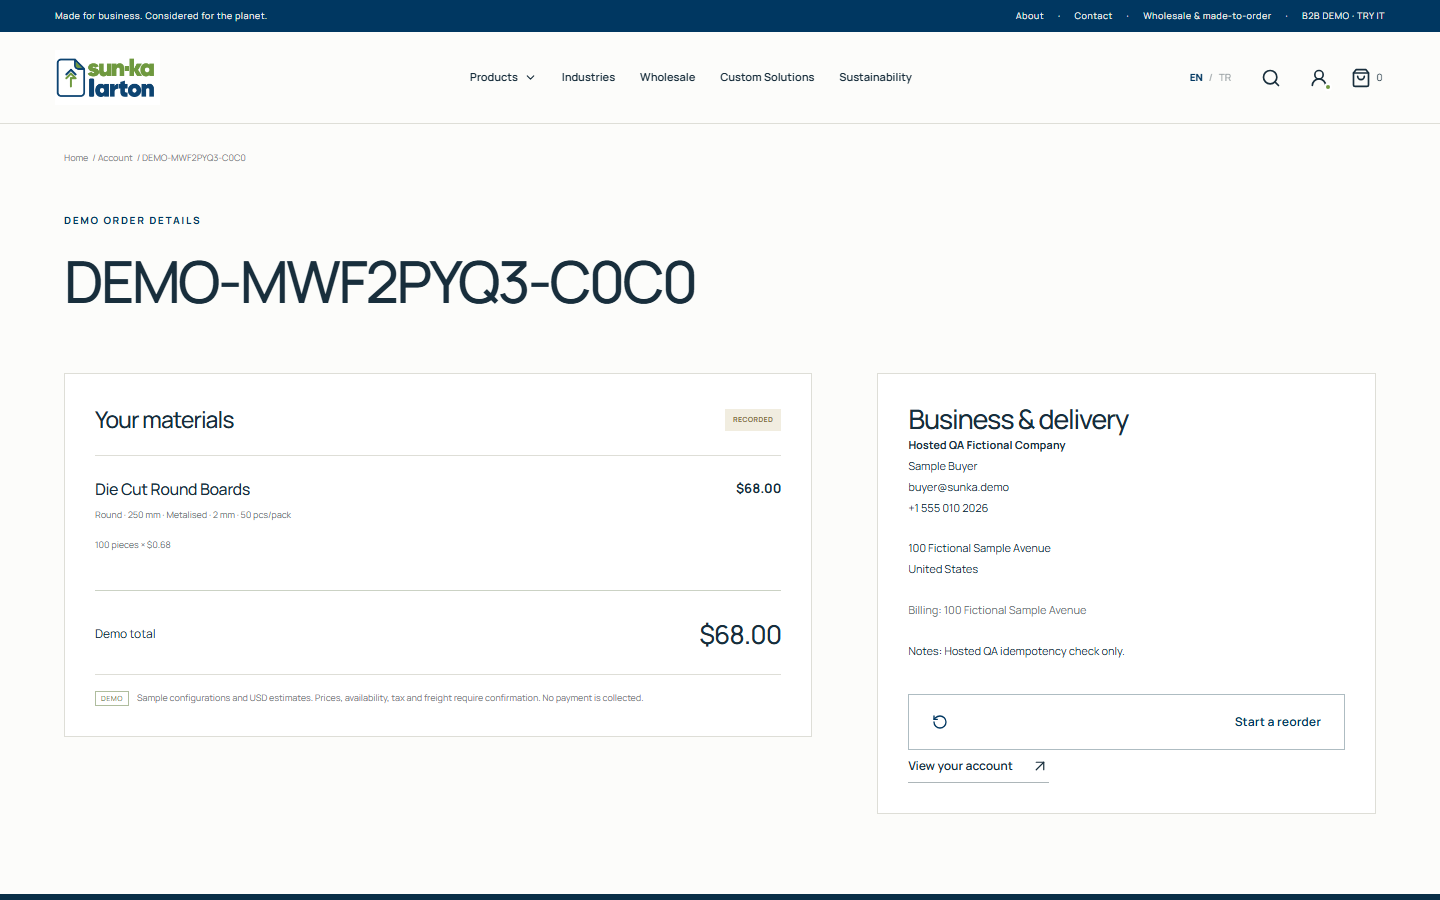
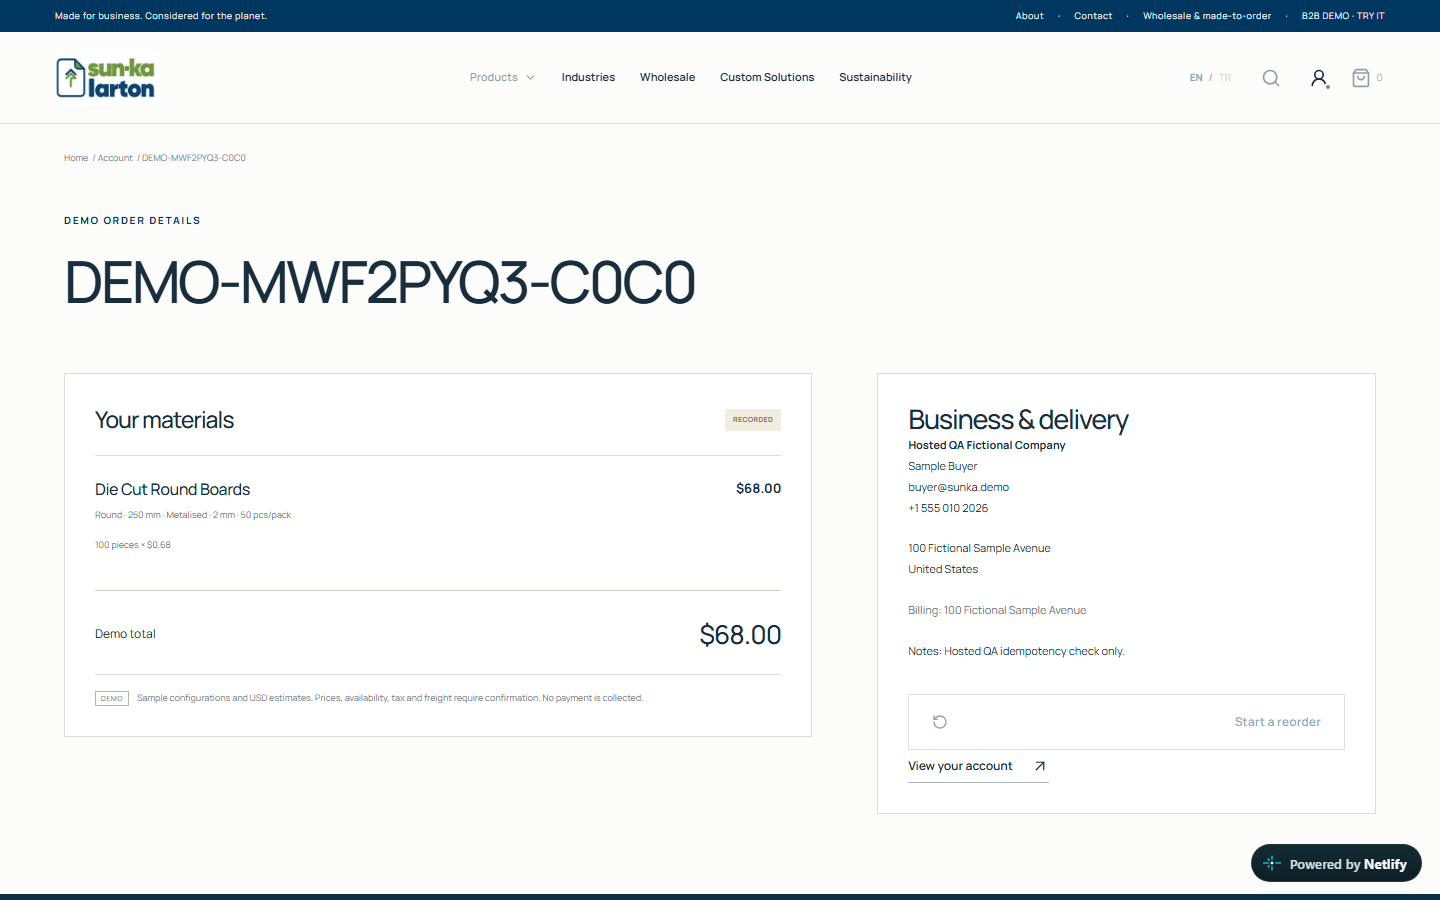
Record verified Netlify deployment, live browser tests and customer guide

diff --git a/docs/qa-report.md b/docs/qa-report.md
@@ -1,79 +1,64 @@
-# Verified delivery · 13 November 2026
+# Verified delivery — Netlify migration, 13 November 2026
 
-Actual workspace: `D:\Projects\SunkaECommerce`. Branch: `main`. Application served locally at `http://127.0.0.1:3000` using the optimized `npm start` build for final browser verification.
+Workspace: D:\Projects\SunkaECommerce. Branch: main. Public demo: https://sunka-larton-wholesale.netlify.app. Customer guide: https://sunka-larton-wholesale.netlify.app/demo-guide?lang=tr.
 
-**Public customer demo:** https://sunka-wholesale-studio.morveteknofest.chatgpt.site — Sites publication **version 3**, source commit `28e6adb0245e6e8aa0e91058c5cb89f8163ee711`. The hosted runtime uses Vinext / Cloudflare Workers with persistent D1; the local Next.js / SQLite target remains available. No Render subscription or paid disk was created.
+The full Next.js application runs on Netlify Functions with persistent Netlify PostgreSQL. This is an independent deployment, with no redirect or reverse proxy to the previous host. Local Next.js / SQLite and the alternative Worker / D1 target remain available.
 
-## Final checks
+## Observed checks
 
-| Check                                     | Observed result                                                                                                                                      |
-| ----------------------------------------- | ---------------------------------------------------------------------------------------------------------------------------------------------------- |
-| `npm install`                             | Passed; Prisma Client generated successfully                                                                                                         |
-| `npm run db:setup`                        | Passed; existing migration applied, idempotent seed preserved records                                                                                |
-| `node scripts/check-setup.mjs`            | Passed against two fresh disposable SQLite databases                                                                                                 |
-| Fresh development seed                    | 21 products, 3 users, 2 orders, 3 RFQs, 2 applications                                                                                               |
-| Fresh production seed with DEMO_MODE=true | 21 catalog presentations; **0 users, orders, RFQs or applications**                                                                                  |
-| `npm run lint`                            | Passed; no errors or warnings                                                                                                                        |
-| `npm run typecheck`                       | Passed                                                                                                                                               |
-| `npm run test`                            | **22 passed**, 5 files; includes hosted origin, guarded sample identities and concurrent Worker request isolation                                    |
-| `npm run build`                           | Passed for both optimized Next.js and deployable Vinext/Worker targets                                                                               |
-| `npm run test:e2e`                        | **9 passed** on the optimized local Next.js server                                                                                                   |
-| `npm run test:worker`                     | **8 passed locally**, final run 40.2 seconds                                                                                                         |
-| Public HTTPS Playwright suite             | **8 passed**, 1.4 minutes, against the actual published version 3 in fresh browser contexts                                                          |
-| GitHub Actions (Linux)                    | Passed: [run 43447608675](https://github.com/HIZMALI/SunkaECommerce/actions/runs/43447608675), including both runtime targets and all browser suites |
-| Cross-deployment persistence              | An order created on version 1 remained accessible after versions 2 and 3 from a fresh browser; `scripts/check-deployment-persistence.mjs` passed     |
-| Public health / robots / sitemap          | All returned 200; sitemap uses the public HTTPS origin and robots disallows indexing                                                                 |
-| Final Worker log inspection               | No runtime exceptions returned after the version 3 publication; expected 400/403 validation rejections were recorded                                 |
-| `node scripts/check-hosted.mjs`           | Passed against a disposable database: runtime migration/seed, separate admin secret, HTTP-only session, health/guide and restart persistence         |
-| `node scripts/link-audit.mjs`             | **53 internal links checked; 0 failures**, including the customer guide                                                                              |
-| `node scripts/final-visual-qa.mjs`        | Completed; no page/console errors or failed images in captured views                                                                                 |
-| `npm audit --audit-level=moderate`        | **0 vulnerabilities**                                                                                                                                |
+| Check                              | Actual result                                                                                            |
+| ---------------------------------- | -------------------------------------------------------------------------------------------------------- |
+| Lint and strict TypeScript         | Passed locally and in GitHub CI                                                                          |
+| Vitest                             | 22 passed, 5 files                                                                                       |
+| Native Next.js production build    | Passed                                                                                                   |
+| Alternative Vinext / Worker build  | Passed in CI                                                                                             |
+| Netlify Linux production build     | Passed; public HTTPS deployment ready                                                                    |
+| Native SQLite / Next.js Playwright | 9 passed                                                                                                 |
+| Local Worker Playwright            | 9 passed in final CI, including the new touch checkout scenario                                          |
+| Public Netlify Playwright          | 9 passed in one final run, 1.8 minutes, fresh browser contexts                                           |
+| GitHub CI                          | Passed: https://github.com/HIZMALI/SunkaECommerce/actions/runs/43464613638                               |
+| Internal links                     | 53 checked, 0 failures on the public Netlify URL                                                         |
+| Health, robots, sitemap            | HTTP 200; sitemap uses the new HTTPS origin; indexing disallowed                                         |
+| Visual capture                     | 8 Netlify-specific captures; no page errors, image failures, overflow, old-host links or requests        |
+| Persistence                        | Order DEMO-MWF2PYQ3-C0C0 survived the hosting transfer and later deploy; opened again in a fresh browser |
+| npm audit                          | 0 vulnerabilities at dependency installation                                                             |
 
-## Browser coverage
+Final application/test source: b269f9def5520383a4814a5630650ddbbe5073d7. Verified Netlify deployment: 6af73cd3ea9c1060a57f9524. Later documentation/screenshot commits do not change the verified application behavior.
 
-1. Homepage image load, product mega menu, Escape handling, four-step finder, matching catalogue filters, search, empty/reset states and quick-view dialog.
-2. Approved buyer login, variant price adjustment, quantity discount threshold, invalid minimum prevention, separate variant cart lines, quantity update, refresh persistence, server-recorded order, success/account history and reorder.
-3. Buyer RFQ recording; database verification; account visibility; administrator review/response saved across refresh; admin product price change reflected in the storefront and DB, then restored.
-4. New wholesale application and pending account; price endpoint/admin authorization rejection; administrator approval unlocking prices; rejection removing access; contact message visible in administration.
-5. Mobile menu/filter drawer; EN/TR links, forms and CTAs; 14 critical routes checked at **360, 390, 768 and 1440 px** with no horizontal overflow, image 404s, console errors or hydration errors.
-6. **Touch-enabled 390 × 844 mobile buyer**: Turkish native validation messages independent of browser language, surface/pack selection, 100-piece pack multiples, persistent quantity update, complete demo checkout, saved USD-cent total and success page.
-7. Anonymous admin/price rejection; cross-origin rejection; HTTP-only SameSite session; MOQ, pack, capacity, quote-only and mismatched variant rejection; duplicate-line prevention; server repricing of a tampered order; idempotent submission and logout.
-8. Administrator order status persistence; independent shape/color/pack selection; company address save/refresh; all catalog images; Turkish SSR `html lang` and metadata; absence of password hashes in page output.
-9. Public customer guide in EN/TR; one-click buyer activation, actual product ordering access and 390 px mobile layout.
+## Live browser coverage
 
-The hosted suite also covers **12 concurrent page requests across three rounds**, secure HTTPS session cookies, administrator order and RFQ persistence, catalogue price edit/restore, a new wholesale application with approval/rejection, contact-message visibility, server repricing of a tampered order, idempotency and logout.
+- Homepage, real product images, mega menu, four-stage finder, URL filters/search, quick view and empty/reset states.
+- Approved buyer login; linked formats, surface/color and pack variants; wholesale tiers; cart quantity and refresh persistence; real server-recorded demo order; account history, details and reorder.
+- RFQ creation, account visibility, administrator response/status, product price edit/restore and persistence after refresh.
+- Wholesale application, pending-price denial, administrator approval/rejection changing actual authorization and contact-message visibility.
+- Anonymous admin denial, same-origin checks, MOQ/pack/capacity validation, quote-only separation, server repricing, idempotent order submission, secure HTTP-only session cookies and logout.
+- Four viewport widths (360, 390, 768, 1440), 14 routes, English/Turkish navigation and no browser console/hydration errors.
+- Twelve concurrent HTML requests returned complete pages.
+- Touch-enabled 390×844 mobile purchase: Turkish validation, Black/100-piece pack selection, 200→300 quantity, refresh, checkout, success and server-rendered account detail showing $234.00.
 
-Tests add fictional local QA records. The seed minimum counts above describe a **fresh** installation; the working presentation database also retains records created during verification. This retention is intentional evidence of persistence and every admin metric is labelled demonstration data.
+## Data transfer and publication fixes
 
-## Visual inspection and fixes
+The previous fictional database was read without truncation and transferred in one PostgreSQL transaction: 5 categories, 21 products, 42 image records (45 distinct local official assets overall), 49 variants, 63 pricing tiers, 6 companies, 6 users, 8 orders/items, 6 RFQs, 5 wholesale applications and 2 contact messages. Subsequent tests add more fictional records. Existing roles, edits, IDs and history were preserved; sessions were not migrated. The hosted administrator password was renewed and is absent from the public repository and customer guide.
 
-Official reference-site screenshots were captured and inspected in `docs/research/source-sunka.png`, `source-gamma.png` and `source-larton.png`. The official asset contact sheet was reviewed to correct photo-family/shape interpretations.
+Netlify's CLI production-database write permission was enabled with the user's explicit approval only for migration, then disabled again. The temporary owner connection was removed from the local environment file. The application continues to write through Netlify's own database binding.
 
-The initial desktop/mobile homepage captures were inspected. Final homepage, product, cart, checkout, RFQ and admin views were reviewed after correction. Changes included deterministic number/date localization to remove server/browser hydration differences; initialization states to preserve the first selection; a transition state to prevent rapid reset/search races; actual image loading before full-page captures; original logo proportions; larger mobile touch targets; and a **single-column, 16 px mobile form layout** after examining the initial two-column form.
+Windows Next.js builds succeeded, but Netlify's local packager required unavailable symlink privileges. Publication was moved to Netlify's Linux build service with a read-only GitHub deploy key. GitHub main push delivery returned HTTP 200 and triggered a successful subsequent publication.
 
-Baseline screenshots remain in `screenshots/iterations/`. Final full-page home images contain the actual loaded photos rather than empty lazy-image areas. No screenshot is claimed from a mockup or image generator.
+One CI run failed while installing Chromium dependencies because the Ubuntu latest runner's external Microsoft apt repository was unavailable. The workflow was pinned to supported Ubuntu 24.04; the full final CI passed afterward.
 
-Real HTTPS testing exposed two issues that local emulation did not reliably expose: interactive controls could receive a click before hydration, and a globally cached in-flight seed/database promise could outlive a canceled Worker request. Every shared UI button now stays disabled until hydration; Worker Prisma instances are request-scoped through AsyncLocalStorage, seed initialization caches only a completed boolean, and speculative Link prefetch is disabled. The final public browser suite and bounded post-deployment Worker log inspection passed after these changes. Test navigation now explicitly waits for the destination before forcing a reload.
+Visual review found the platform badge overlapping the mobile purchase action. The Netlify layout now reserves space for the badge without hiding it. A regression assertion verifies both edges of the purchase button receive pointer input; the final live mobile purchase passed. Admin screenshot capture was also corrected to await the loaded dashboard rather than the temporary loading shell.
 
-Vinext/Rolldown still emits non-blocking source-map and dynamic-import build warnings. They did not cause failures in the final checks; this is a customer demonstration, not a claim of a production SLA.
+## Real screenshot evidence
 
-## Screenshot evidence
+All files below are under D:\Projects\SunkaECommerce\screenshots:
 
-All paths below are under `D:\Projects\SunkaECommerce\screenshots\`:
+- netlify-home-desktop.png (1440×900), netlify-home-mobile.png (390×844), and corresponding full-page captures.
+- netlify-catalog.png, netlify-product.png, netlify-cart.png, netlify-checkout.png, netlify-rfq.png, netlify-admin.png.
+- netlify-guide-mobile.png, hosted-product-mobile-buyer.png, hosted-order-success-mobile.png.
+- persistence-after-deploy.png.
 
-- `home-desktop.png` — 1440 × 900; `home-mobile.png` — 390 × 844.
-- `home-desktop-full.png`, `home-mobile-full.png` — fully loaded full-page captures.
-- `catalog.png`, `catalog-mobile.png`, `collection.png`.
-- `product.png`, `product-mobile.png`, `product-mobile-buyer.png`.
-- `cart.png`, `cart-mobile.png`, `checkout.png`, `checkout-mobile.png`.
-- `rfq.png`, `rfq-mobile.png`, `rfq-mobile-form.png`.
-- `admin.png`, `admin-mobile.png`, `account.png`, `order-success-mobile.png`.
-- `demo-guide-desktop.png`, `demo-guide-mobile.png` — the customer self-service walkthrough.
-- `worker-product.png`, `worker-cart.png`, `worker-checkout.png`, `worker-rfq.png`, `worker-admin.png` — actual public HTTPS browser captures.
-- `persistence-after-deploy.png` — an existing order opened after a new deployment from a fresh browser.
+Desktop/mobile home, catalogue, product and dashboard images were visually inspected. Source photos remain official Sun-Ka/Larton assets documented in asset-sources.md; prices, formats, stock/capacity and all identities remain fictional demonstration data. No payment, shipment, ERP call or email was performed.
 
-Playwright HTML report: `playwright-report/index.html`. Latest run status: `test-results/.last-run.json` (`passed`, no failed tests).
+## Limits
 
-## Limits of verification
-
-Chromium and Chromium touch emulation were used; Safari/WebKit, Firefox, real mobile hardware and external integrations were not tested. Accessibility behavior was exercised through semantic locators, keyboard Escape and Radix dialog behavior; this is not a formal WCAG certification. No production load test, live payment, real email, ERP, freight/tax calculation, attachment upload or real stock verification is included. See `production-roadmap.md` for the company decisions and engineering work required before live commerce.
+Netlify's free-plan quota and platform badge apply; no card or paid plan was enabled. Production deployments, requests, traffic and database usage consume the monthly quota. This demonstration has no production SLA. Real catalogue approval, prices/MOQ, payment/ERP, tax/shipping and legal/data-retention decisions remain phase-two prerequisites. Runtime rate limiting is process-local; production needs centralized controls, backups and account recovery/MFA.

diff --git a/README.md b/README.md
@@ -38,11 +38,11 @@ npm start
 
 ## Yalnızca yerel demo hesapları
 
-| Rol | E-posta | Şifre |
-| --- | --- | --- |
-| Yönetici | `admin@sunka.demo` | `SunkaDemo!2026` |
-| Onaylı müşteri | `buyer@sunka.demo` | `BuyerDemo!2026` |
-| Onay bekleyen | `pending@sunka.demo` | `PendingDemo!2026` |
+| Rol            | E-posta              | Şifre              |
+| -------------- | -------------------- | ------------------ |
+| Yönetici       | `admin@sunka.demo`   | `SunkaDemo!2026`   |
+| Onaylı müşteri | `buyer@sunka.demo`   | `BuyerDemo!2026`   |
+| Onay bekleyen  | `pending@sunka.demo` | `PendingDemo!2026` |
 
 Seed bu yerel hesapları yalnızca `DEMO_MODE=true` ve `NODE_ENV` production değilken oluşturur. Normal production'da örnek kimlikler oluşturulmaz. Bunlar gerçek şirket hesapları değildir. Ayrı bir hosted demo sandbox için açık opt-in ve en az 20 karakterli, ayrı yönetici secret'ı zorunludur; [ayrıntılar](docs/deployment.md). **Yayında yerel yönetici şifresi kullanılmaz.** `npm start` ile yerel sunum için optimize build çalıştırmak, canlı ticaret entegrasyonu oluşturmaz. DEMO_MODE kapatıldığında tek tıkla müşteri demosu ve demo sipariş oluşturma kapanır. Yönetici parolası arayüzde yayımlanmaz.
 
@@ -96,4 +96,4 @@ Resmi iletişim kaynakları arasında e-posta/ikinci telefon farklılıkları va
 
 5–7 dakikalık senaryo: [docs/demo-walkthrough.md](docs/demo-walkthrough.md). Görsel kaynaklar: [docs/asset-sources.md](docs/asset-sources.md). Varsayımlar: [docs/demo-assumptions.md](docs/demo-assumptions.md). Canlıya geçiş: [docs/production-roadmap.md](docs/production-roadmap.md).
 
-Başlıca sınırlar: yerel SQLite; USD demo tahminleri; örnek konfigürasyonlar; ürün/varyant oluşturma ve görsel yükleme yönetimi bu sürümde yok; yönetim mevcut ürünlerin çekirdek alanlarını düzenler. Canlı ticaret için şirketin katalog/teknik uygunluk, fiyat/MOQ, ödeme/ERP, vergi/kargo ve hukuki/veri saklama politikalarının onaylanması gerekir. Rate limit yerel süreç belleğindedir; üretimde merkezi kalıcı sınırlama, MFA, parola sıfırlama, denetim kaydı, yedekleme ve izleme eklenmelidir.
+Başlıca sınırlar: USD demo tahminleri; örnek konfigürasyonlar; ürün/varyant oluşturma ve görsel yükleme yönetimi bu sürümde yok; yönetim mevcut ürünlerin çekirdek alanlarını düzenler. Canlı ticaret için şirketin katalog/teknik uygunluk, fiyat/MOQ, ödeme/ERP, vergi/kargo ve hukuki/veri saklama politikalarının onaylanması gerekir. Rate limit yerel süreç belleğindedir; üretimde merkezi kalıcı sınırlama, MFA, parola sıfırlama, denetim kaydı, yedekleme ve izleme eklenmelidir.

diff --git a/docs/deployment.md b/docs/deployment.md
@@ -25,11 +25,13 @@ netlify.toml build komutunu npm run build:netlify, çıktı klasörünü .next o
 ```powershell
 npm install
 # Hosted ortam değişkenleri yalnız Netlify'de veya Git dışında .env.netlify içinde:
-npm run build:netlify
-npx netlify-cli deploy --prod
+# Güncellemeyi Netlify'nin Linux build ortamında yayımla:
+git push origin main
 ```
 
-Yalnız başarılı deploy kaydı yayınlandığında ve oturumsuz tarayıcı HTTPS adresini açabildiğinde yayın tamamlanmış sayılır. Public erişim yeni projelerde ayrıca açılır. Site ID'si tek başına müşteri erişimi için yeterli değildir. GitHub main kaynak kodunu barındırır; CLI ile yapılan yayınlar manuel güncellenir.
+GitHub main push webhook'u Netlify production build'ini tetikler. Netlify yalnız bu public depoyu okuyabilen bir deploy key kullanır; kaynak koda yazma yetkisi yoktur. Yayın başarılı olduğunda oturumsuz HTTPS erişimi ayrıca doğrulanır. Public erişim yeni projelerde ayrıca açılır. Windows'ta Next.js build'i çalışır; Netlify paketleyicisi sembolik bağlantı izni isteyebildiği için gerçek dağıtım Linux build ortamında yapılır.
+
+HOSTING_PROVIDER=netlify runtime ayarı, mobil sabit satın alma düğmesinin ücretsiz platform rozetine yer bırakmasını sağlar. Rozet gizlenmez; düğmenin her iki kenarı da dokunulabilir kalır.
 
 ## Doğrulama
 

diff --git a/docs/deployment-worker.md b/docs/deployment-worker.md
@@ -1,6 +1,6 @@
-# Ücretsiz müşteri yayını: Sites + Cloudflare D1
+# Alternatif yerel Worker / D1 hedefi
 
-Müşteri demosu Sites üzerinde yayımlanmak üzere hazırlanmıştır. Render aboneliği veya ücretli disk oluşturulmadı. GitHub Pages uygulamanın sunucu ve veritabanı işlemlerini çalıştıramadığı için kullanılmıyor. Public kaynak depo HIZMALI/SunkaECommerce, geliştirme dalı main olarak korunur.
+Bu belge önceki Worker adapter'ının teknik yönergesidir. Güncel müşteri yayını Netlify + PostgreSQL üzerindedir; [güncel yayın belgesini](deployment.md) kullanın. Yerel Worker önizlemesi ve testleri alternatif hedef olarak korunur.
 
 ## İki çalışma hedefi
 
